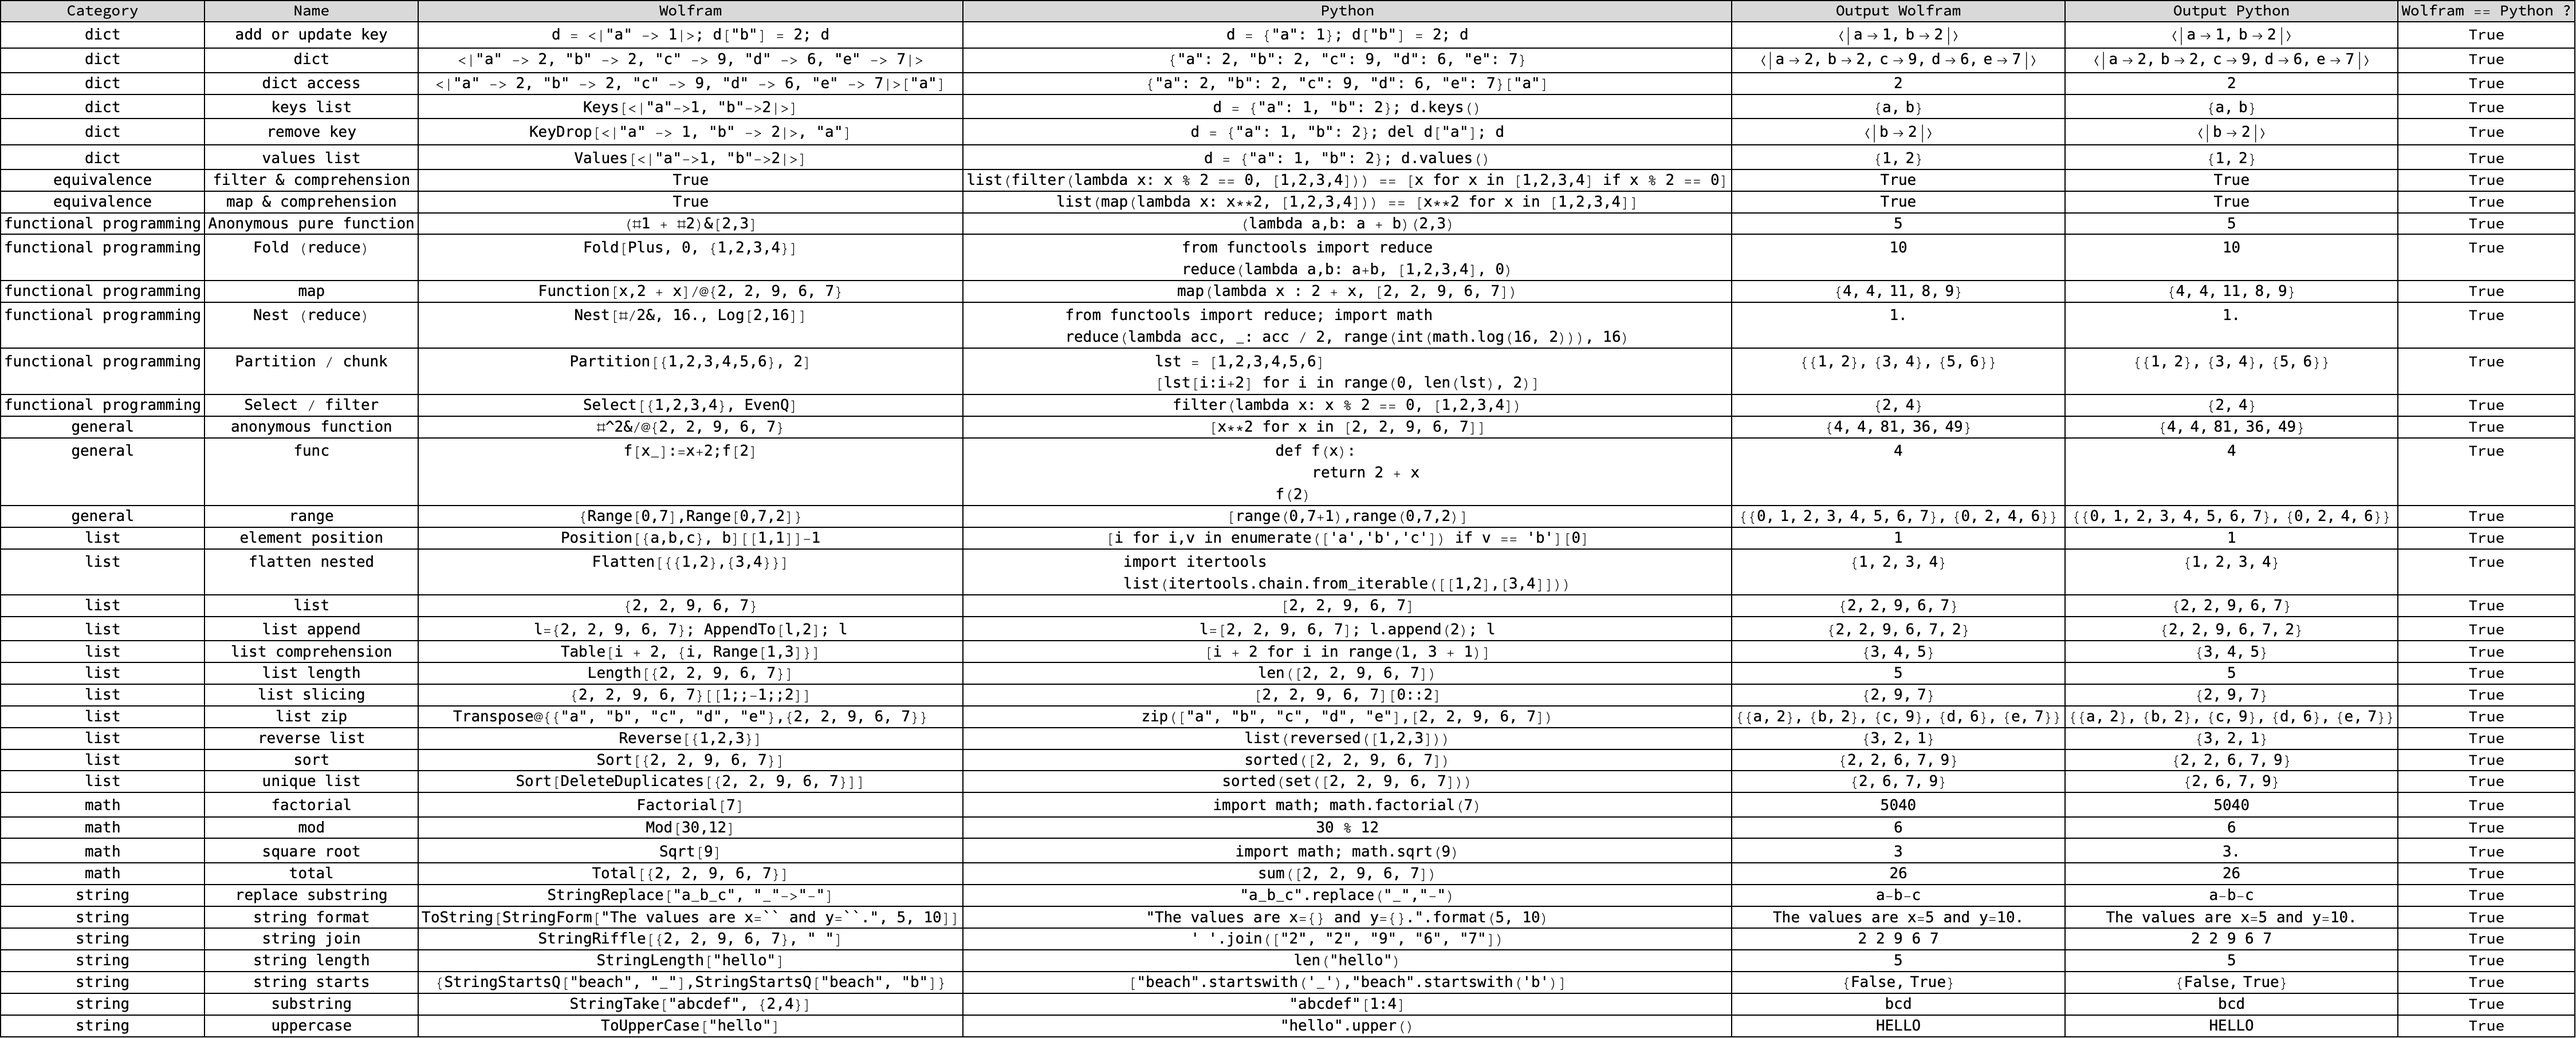
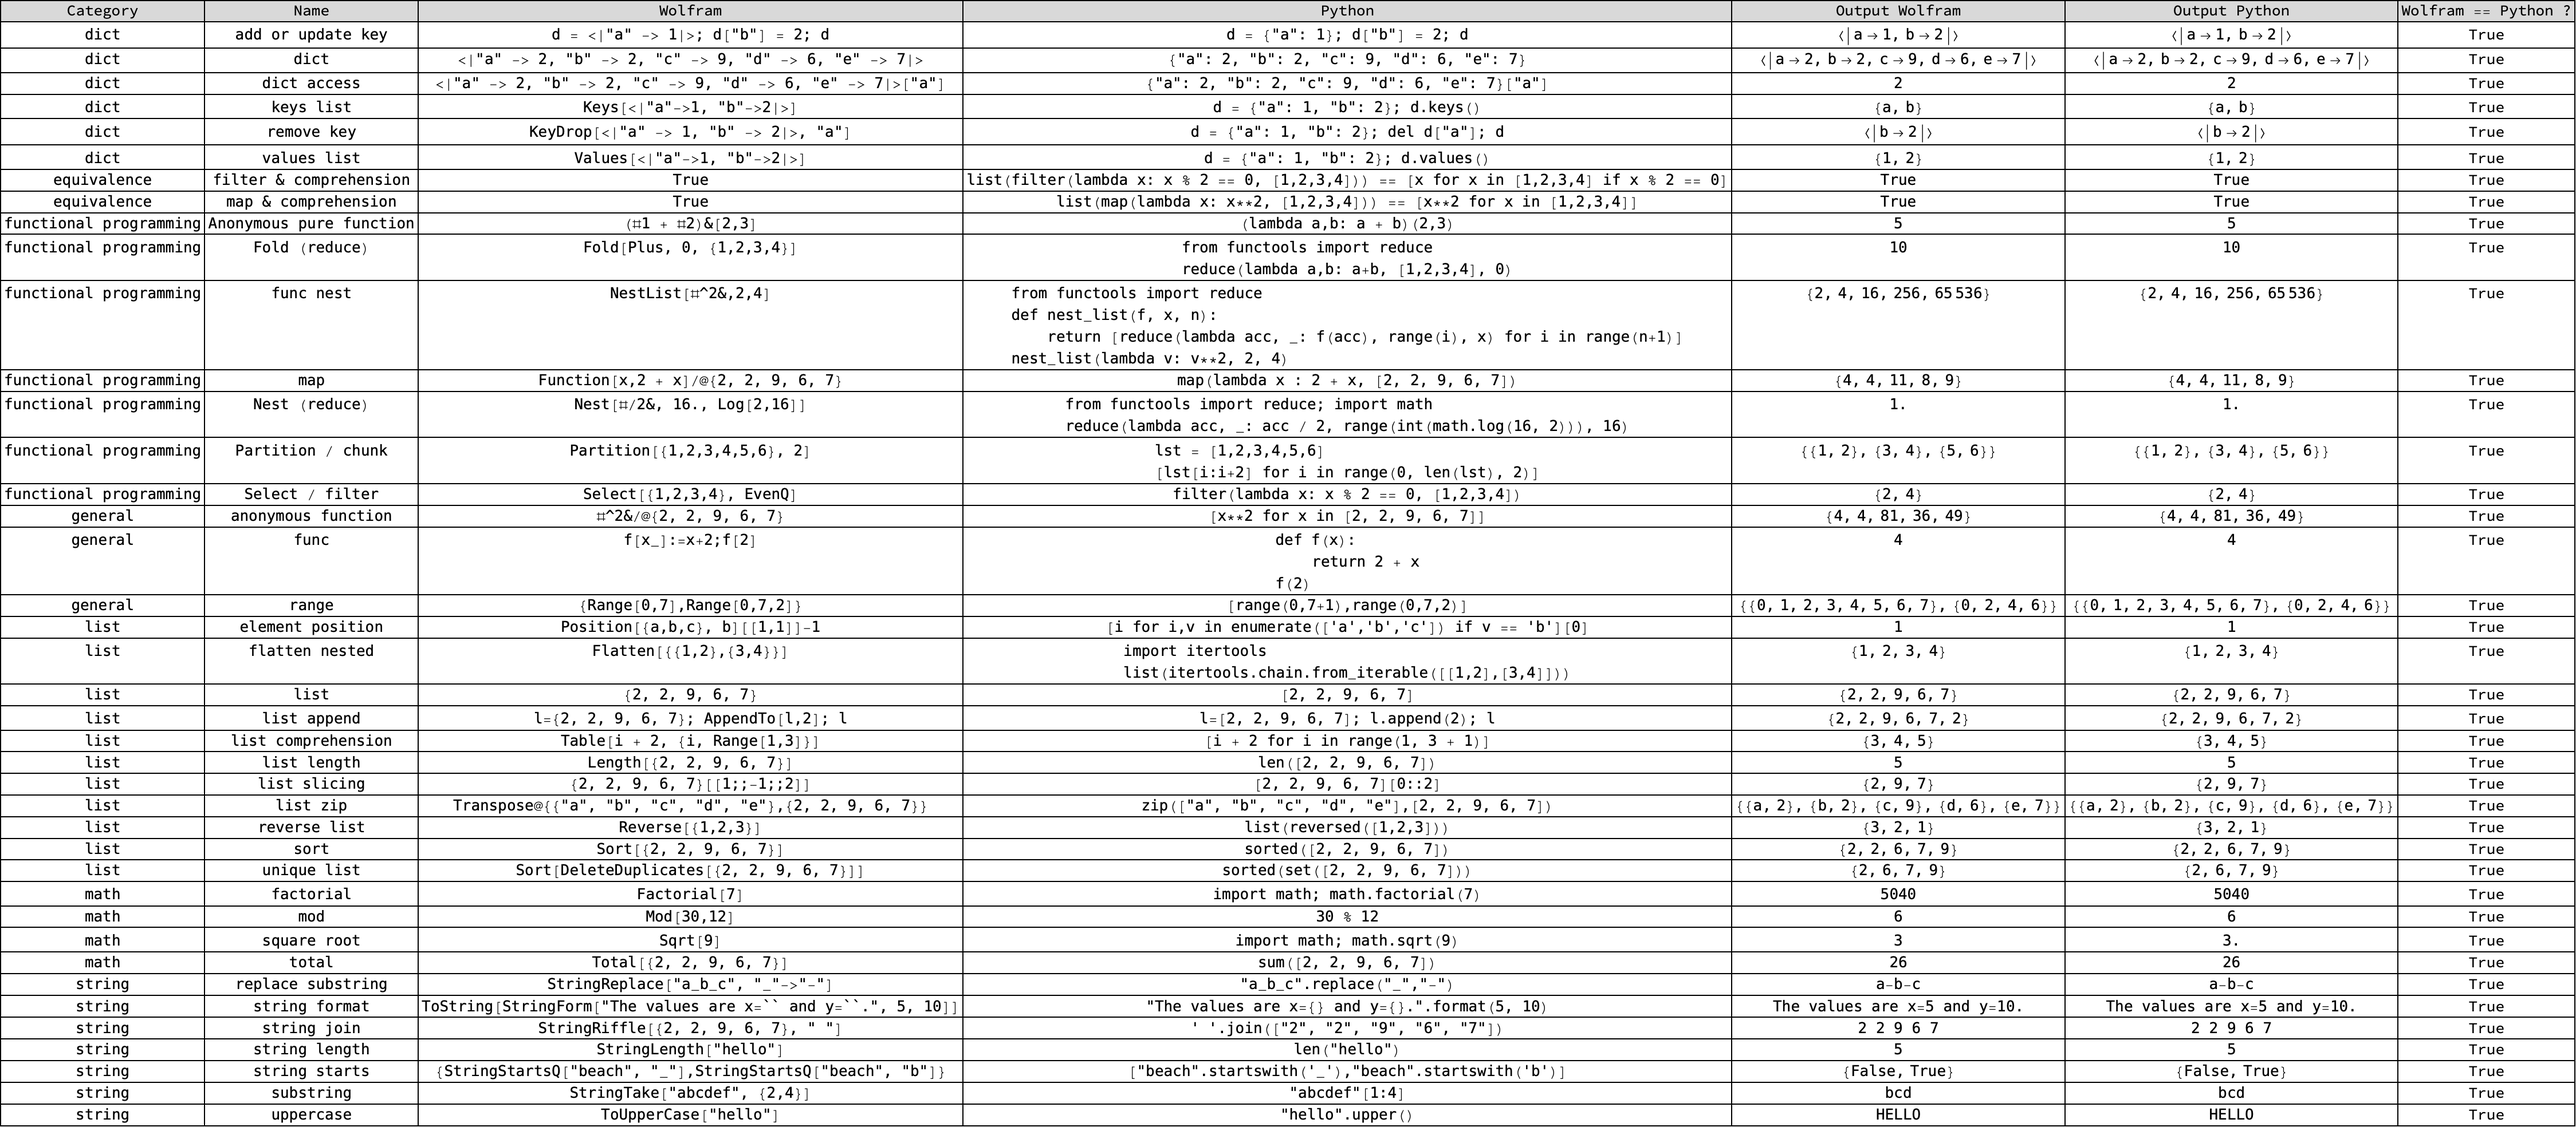
NestFold

Changed region(s): [[0.0, 0.0, 1.0, 1.0], [0.934, 0.2471, 0.9962, 0.278]]

diff --git a/README.md b/README.md
@@ -36,7 +36,7 @@ map & comprehension|<pre>True</pre>|<pre>list(map(lambda x: x**2, [1,2,3,4])) ==
 :---:|:---|:---
 Anonymous pure function|<pre>(#1 + #2)&[2,3]</pre>|<pre>(lambda a,b: a + b)(2,3)</pre>
 Fold (reduce)|<pre>Fold[Plus, 0, {1,2,3,4}]</pre>|<pre>from functools import reduce<br/>reduce(lambda a,b: a+b, [1,2,3,4], 0)<br/></pre>
-func nest|<pre>NestList[f[#]&,2,3]</pre>|<pre>def nest(f, x, times):<br/>    y = [x]<br/>    for i in range(times-1):<br/>        y.append(f(y[-1]))<br/>    return y<br/>nest(f,2,3)<br/></pre>
+func nest|<pre>NestList[#^2&,2,4]</pre>|<pre>from functools import reduce<br/>def nest_list(f, x, n):<br/>    return [reduce(lambda acc, _: f(acc), range(i), x) for i in range(n+1)]<br/>nest_list(lambda v: v**2, 2, 4)<br/></pre>
 map|<pre>Function[x,2 + x]/@{2, 2, 9, 6, 7}</pre>|<pre>map(lambda x : 2 + x, [2, 2, 9, 6, 7])</pre>
 Nest (reduce)|<pre>Nest[#/2&, 16., Log[2,16]]</pre>|<pre>from functools import reduce; import math<br/>reduce(lambda acc, _: acc / 2, range(int(math.log(16, 2))), 16)<br/></pre>
 Partition / chunk|<pre>Partition[{1,2,3,4,5,6}, 2]</pre>|<pre>lst = [1,2,3,4,5,6]<br/>[lst[i:i+2] for i in range(0, len(lst), 2)]<br/></pre>
